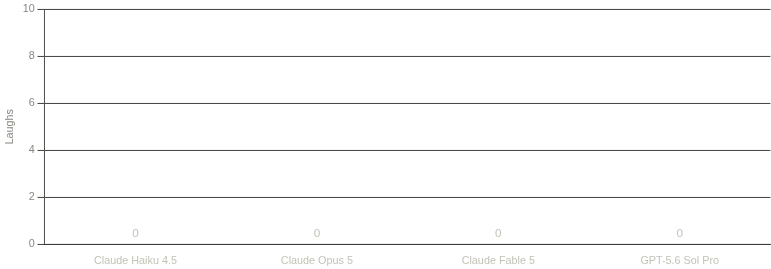
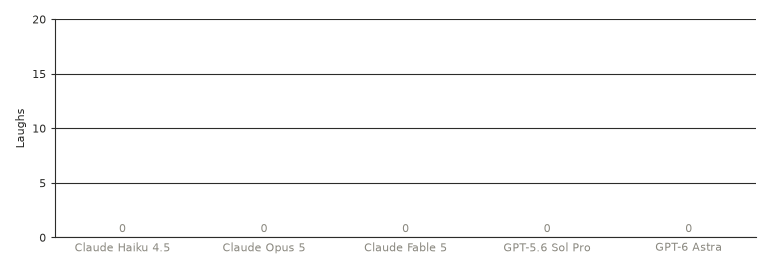
Update for GPT-6 Astra results

diff --git a/README.md b/README.md
@@ -41,9 +41,9 @@ joke generation to mitigate this issue.
 
 ## Example results
 
-![Laughs per model — all four bars at zero](example_chart.png)
+![Laughs per model — all five bars at zero](example_chart.png)
 
-One run, one rater (the author), four models:
+One run, one rater (the author), five models:
 
 | Model | Score |
 |---|---|
@@ -51,8 +51,9 @@ One run, one rater (the author), four models:
 | Claude Opus 5 | 0/10 |
 | Claude Fable 5 | 0/10 |
 | GPT-5.6 Sol Pro | 0/10 |
+| GPT-6 Astra | 0/20 |
 
-No model produced a single laugh. GPT-5.6 Sol Pro and Fable each managed a smile or two, which the smaller models never did.
+No model produced a single laugh. GPT-5.6 Sol Pro, GPT-6 Astra, and Fable each managed a smile or two, which the smaller models never did.
 
 ## Setup
 
